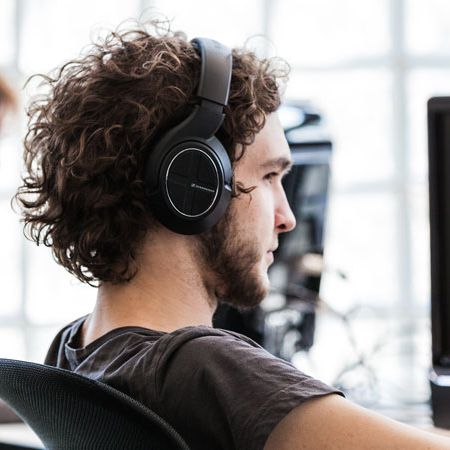
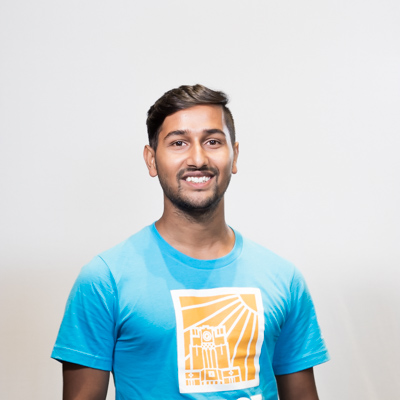
Initial gromming changes

diff --git a/_sass/pages/resume.sass b/_sass/pages/resume.sass
@@ -1,0 +1,100 @@
+.resume
+    font: normal normal 400
+    font-size: 100%
+    line-height: 1.5em
+    font-family: Avenir,Verdana,sans-serif
+    margin-top: 1em
+    margin-left: 1em
+
+    > p
+        position: relative
+        left: 25%
+        margin-bottom: 0.7em
+        margin-right: 0
+        width: 55%
+
+    > code
+        font: normal normal
+        font-size: 90%
+        font-family: Monaco,Menlo,monospace,sans-serif
+        color: #aaa
+
+    > p code
+        position: absolute
+        text-align: right
+        right: -20%
+
+    > ul
+        position: relative
+        left: 25%
+        width: 75%
+        margin-bottom: 1.5em
+        margin-top: -0.5em
+
+    > li
+        padding-left: 1.25em
+        text-indent: -1.25em
+    > li ul
+        position: relative
+        left: 0
+        width: 100%
+        margin-top: 0.25em
+
+    > h1,h2,h3,h4
+        font-weight: 400
+        font-family: Avenir,Cousine,Verdana,sans-serif
+        width: 80%
+
+    > h1
+        text-align: left
+        font-size: 3em
+        line-height: 1em
+        position: relative
+        left: 25%
+
+    > h1+p
+        font-style: italic
+        font-size: 110%
+
+    > h2
+        font-size: 1.1em
+        color: #bc412b
+        margin-top: 3em
+        position: relative
+        top: 1.4em
+        text-align: right
+        width: 20%
+
+    > h3
+        font-size: 1em
+        line-height: 2em
+        position: relative
+        top: 1.7em
+        text-align: right
+        width: 20%
+
+    > a
+        color: inherit
+
+    > a:hover
+        color: #39f
+
+    > #webaddress
+        margin-top: 1em
+        position: relative
+        left: 25%
+        color: #bc412b
+        font-family: Monaco,Menlo,monospace,sans-serif
+        font-size: 100%
+
+    > #webaddress a
+        text-decoration: none
+
+    > em
+        font-style: italic
+
+    > strong
+        font-weight: bold
+
+    > #address
+        display: none

diff --git a/_includes/style.scss b/_includes/style.scss
@@ -9,6 +9,7 @@
 @import "pages/page";
 @import "pages/post";
 @import "pages/tags";
+@import "pages/resume";
 
 @import "components/author";
 @import "components/disqus";

diff --git a/_layouts/resume.html b/_layouts/resume.html
@@ -1,0 +1,7 @@
+---
+layout: page
+title: Resume
+---
+<div class="resume">
+    {{ content }}
+</div>

diff --git a/resume.md b/resume.md
@@ -1,0 +1,91 @@
+---
+layout: resume
+title: Anuj Gautam's CV
+---
+# Anuj Gautam
+Python Developer
+
+<div id="webaddress">
+<a href="isaac@applesdofall.org">isaac@applesdofall.org</a>
+| <a href="http://en.wikipedia.org/wiki/Isaac_Newton">My wikipedia page</a>
+</div>
+
+
+## Currently
+
+Standing on the shoulders of giants
+
+### Specialized in
+
+Laws of motion, gravitation, minting coins, disliking [Robert Hooke](http://en.wikipedia.org/wiki/Robert_Hooke)
+
+
+### Research interests
+
+Cooling, power series, optics, alchemy, planetary motions, apples.
+
+
+## Education
+
+`1654-1660`
+__The King's School, Grantham.__
+
+`June 1661 - now`
+__Trinity College, Cambridge__
+
+- Sizar
+
+`1667 - death`
+__Trinity College, Cambridge__
+
+- Fellow
+
+
+
+## Awards
+
+`2012`
+President, *Royal Society*, London, UK
+
+Associate, *French Academy of Science*, Paris, France
+
+
+
+## Publications
+
+<!-- A list is also available [online](http://scholar.google.co.uk/citations?user=LTOTl0YAAAAJ) -->
+
+### Journals
+
+`1669`
+Newton Sir I, De analysi per æquationes numero terminorum infinitas. 
+
+`1669`
+Lectiones opticæ.
+
+etc. etc. etc.
+
+### Patents
+
+`2012`
+Infinitesimal calculus for solutions to physics problems, [SMBC](http://www.techdirt.com/articles/20121011/09312820678/if-patents-had-been-around-time-newton.shtml) patent 001
+
+
+## Occupation
+
+`1600`
+__Royal Mint__, London
+
+- Warden
+- Minted coins
+
+`1600`
+__Lucasian professor of Mathematics__, Cambridge University
+
+
+
+<!-- ### Footer
+
+Last updated: May 2013 -->
+
+
